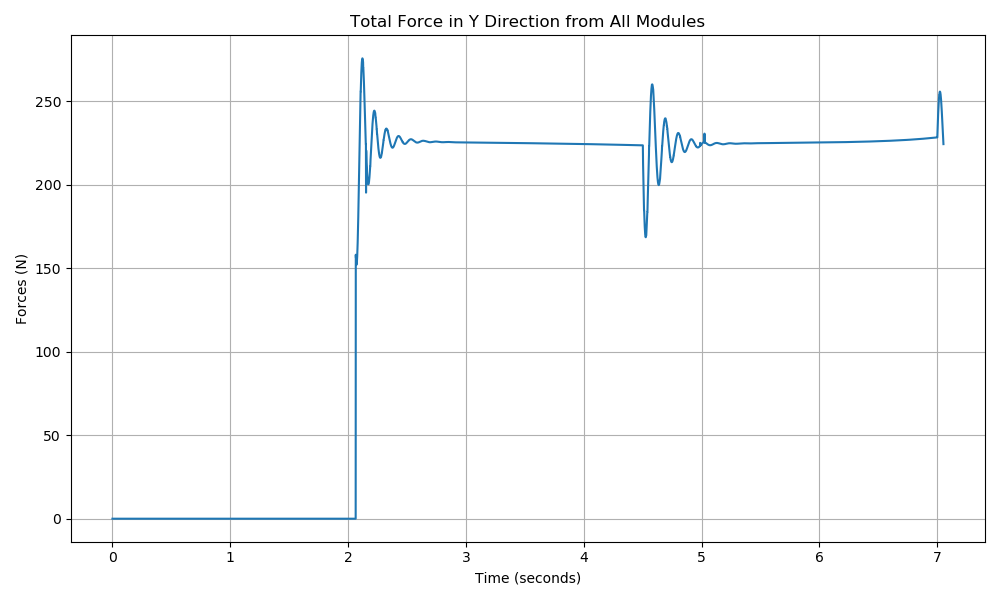
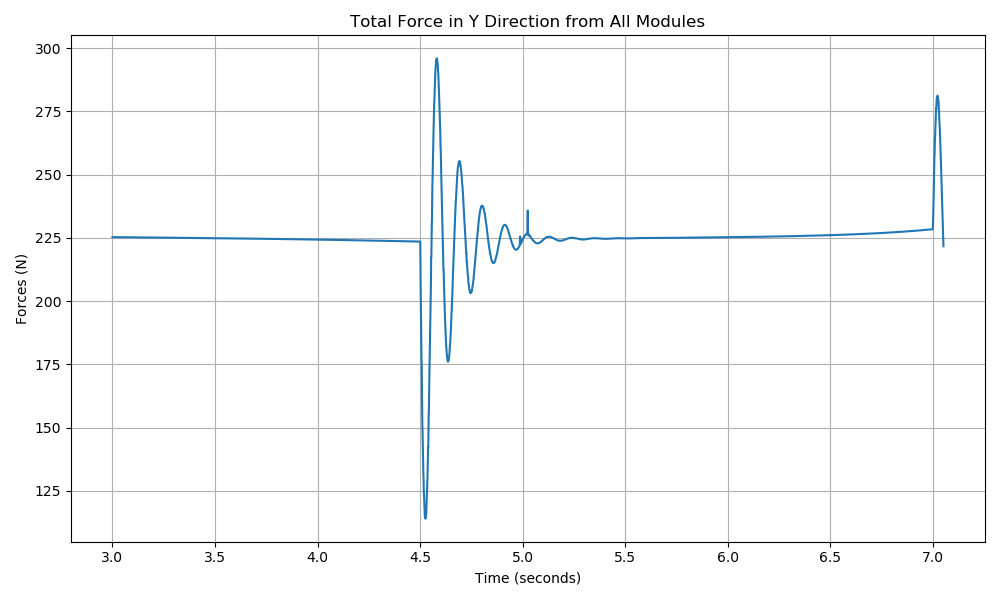
WIP

diff --git a/Data_Processor/static_test.py b/Data_Processor/static_test.py
@@ -5,7 +5,7 @@ import os
 import matplotlib.pyplot as plt
 
 # Define the file path
-file_path = 'data/0520/force_test_stand_updown.csv'
+file_path = 'data/0520/force_test_stand.csv'
 
 # Check if file exists
 if not os.path.exists(file_path):
@@ -33,121 +33,44 @@ if missing_columns:
     # print("Available columns:", data.columns.tolist())
     exit(1)
 
-# Calculate the sum of forces in Y direction for all modules
-fx_sum = data['force_Fx_a'] + data['force_Fx_b'] + data['force_Fx_c'] + data['force_Fx_d']
-fy_sum = data['force_Fy_a'] + data['force_Fy_b'] + data['force_Fy_c'] + data['force_Fy_d']
-A_force = np.sqrt(data['force_Fx_a']**2 + data['force_Fy_a']**2)
 
-fy_sum_acc = fx_sum + data['imu_lin_acc_z'] * 20.0 # kg
+MASS = 20.0  # kg
+GRAVITY = 9.81  # m/s^2
+Fz = data['force_Fy_a'] + data['force_Fy_b'] + data['force_Fy_c'] + data['force_Fy_d'] - data['imu_lin_acc_z'] * MASS - GRAVITY * MASS
+Fx = data['force_Fx_a'] + data['force_Fx_b'] + data['force_Fx_c'] + data['force_Fx_d'] - data['imu_lin_acc_x'] * MASS
+
+
+# Define a parameter for the time range to plot
+plot_time = [5.5, 10]  # in seconds, [init, final]
 
 # Create time array (1000Hz sampling rate)
 time = np.arange(len(data)) / 1000.0  # time in seconds
 
-# Plot the sum of forces over time
+# Filter data based on the plot_time range
+start_idx = int(plot_time[0] * 1000)  # Convert seconds to index
+end_idx = int(plot_time[1] * 1000)    # Convert seconds to index
+
+# Ensure indices are within bounds
+start_idx = max(0, start_idx)
+end_idx = min(len(time), end_idx)
+
+# Plot the sum of forces over the specified time range
 plt.figure(figsize=(10, 6))
-plt.plot(time, np.array(fy_sum))
+plt.subplot(2, 1, 1)
+plt.plot(time[start_idx:end_idx], np.array(Fz)[start_idx:end_idx], label='Fz')
 plt.xlabel('Time (seconds)')
-plt.ylabel('Forces (N)')
-plt.title('Total Force in Y Direction from All Modules')
+plt.ylabel('Force Fz (N)')
+plt.title('Force Fz')
+plt.legend()
 plt.grid(True)
-plt.tight_layout()
-plt.savefig('fy_sum.png')
-plt.show()
 
-plt.figure(figsize=(10, 6))
-plt.plot(time, np.array(fx_sum))
+plt.subplot(2, 1, 2)
+plt.plot(time[start_idx:end_idx], np.array(Fx)[start_idx:end_idx], label='Fx')
 plt.xlabel('Time (seconds)')
-plt.ylabel('Forces (N)')
-plt.title('Total Force in X Direction from All Modules')
+plt.ylabel('Force Fx (N)')
+plt.title('Force Fx')
+plt.legend()
 plt.grid(True)
+
 plt.tight_layout()
-plt.savefig('fx_sum.png')
-plt.show()
-
-# plt.figure(figsize=(10, 6))
-# plt.plot(time, A_force)
-# plt.xlabel('Time (seconds)')
-# plt.ylabel('Forces (N)')
-# plt.title('Force from A Modules')
-# plt.grid(True)
-# plt.tight_layout()
-# # plt.savefig('total_fx_force.png')
-# plt.show()
-
-# plt.figure(figsize=(10, 6))
-# plt.plot(time, data['force_Fy_a'])
-# plt.xlabel('Time (seconds)')
-# plt.ylabel('Forces (N)')
-# plt.title('Force Fy from A Modules')
-# plt.grid(True)
-# plt.tight_layout()
-# # plt.savefig('total_fx_force.png')
-# plt.show()
-
-# plt.figure(figsize=(10, 6))
-# plt.plot(time, np.array(data['force_Fx_a']))
-# plt.xlabel('Time (seconds)')
-# plt.ylabel('Forces (N)')
-# plt.title('Force Fx from A Modules')
-# plt.grid(True)
-# plt.tight_layout()
-# # plt.savefig('total_fx_force.png')
-# plt.show()
-
-# fig, axes = plt.subplots(nrows=4, ncols=1, figsize=(10, 12), sharex=True)
-
-# # Plot for module A
-# axes[0].plot(time, np.array(data['force_Fx_a']), label='Fx')
-# # axes[0].plot(time, data['force_Fy_a'], label='Fy')
-# axes[0].set_ylabel('Force (N)')
-# axes[0].set_title('Module A Forces')
-# axes[0].legend()
-# axes[0].grid(True)
-
-# # Plot for module B
-# axes[1].plot(time, np.array(data['force_Fx_b']), label='Fx')
-# # axes[1].plot(time, data['force_Fy_b'], label='Fy')
-# axes[1].set_ylabel('Force (N)')
-# axes[1].set_title('Module B Forces')
-# axes[1].legend()
-# axes[1].grid(True)
-
-# # Plot for module C
-# axes[2].plot(time, np.array(data['force_Fx_c']), label='Fx')
-# # axes[2].plot(time, data['force_Fy_c'], label='Fy')
-# axes[2].set_ylabel('Force (N)')
-# axes[2].set_title('Module C Forces')
-# axes[2].legend()
-# axes[2].grid(True)
-
-# # Plot for module D
-# axes[3].plot(time, np.array(data['force_Fx_d']), label='Fx')
-# # axes[3].plot(time, data['force_Fy_d'], label='Fy')
-# axes[3].set_xlabel('Time (seconds)')
-# axes[3].set_ylabel('Force (N)')
-# axes[3].set_title('Module D Forces')
-# axes[3].legend()
-# axes[3].grid(True)
-
-# plt.tight_layout()
-# plt.show()
-
-# plt.figure(figsize=(10, 6))
-# plt.plot(time, np.array(data['imu_lin_acc_z']))
-# plt.xlabel('Time (seconds)')
-# plt.ylabel('acceleration (N)')
-# plt.title('Body Z acceleration')
-# plt.grid(True)
-# plt.tight_layout()
-# # plt.savefig('total_fx_force.png')
-# plt.show()
-
-plt.figure(figsize=(10, 6))
-plt.plot(time, np.array(fy_sum_acc))
-plt.xlabel('Time (seconds)')
-plt.ylabel('Total Force (N)')
-plt.title('Z direction kinostaic')
-plt.grid(True)
-plt.tight_layout()
-plt.savefig('total_fx_force.png')
 plt.show()
